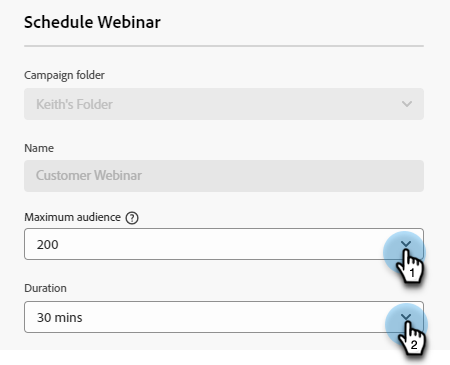
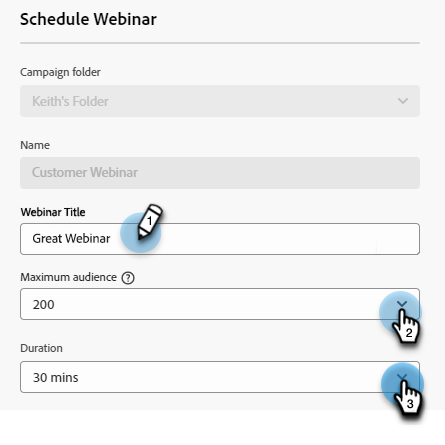
IW updates

diff --git a/help/marketo/temp-getting-started-section/temp-implementing-a-new-marketo-engage-instance/where-to-start.md b/help/marketo/temp-getting-started-section/temp-implementing-a-new-marketo-engage-instance/where-to-start.md
@@ -1,8 +1,32 @@
 ---
-description: Where to start
+description: Learn the best practices when implementing a new Marketo Engage instance. Keeping track of performed will help you get the most out of Marketo Engage and set your instance up for long-term hygiene and efficiency. As a new admin navigating a fresh instance, use these guides to stay focused and organized.
 title: Where to start
 hide: yes
 hidefromtoc: yes
 feature: Getting Started
 ---
-# Where to start {#Where-to-start}
+# Where to Start {#Where-to-start}
+
+Welcome to Marketo Engage! Get ready to streamline, automate, and measure marketing tasks and workflows with powerful marketing automation capabilities.
+
+In this "Implementing a New Marketo Engage Instance" guide, you will learn how to seamlessly implement a new instance to ensure long-term hygiene and operational efficiency. Each checklist provides valuable steps for you to keep track of your configuration progress. Use the downloadable checklists to document your decisions along the way for future instance audits and onboarding.
+
+## Best Practice Checklists For Your New Marketo Engage Instance {#best-practice-checklists-new-instance}
+
+Download the Marketo Engage Instance New Implementation Admin Checklists[INSERT LINK] or go through the online guides below:
+
+Admin section [INSERT LINK]
+
+Database [INSERT LINK]
+
+Marketing Activities [INSERT LINK]
+
+Design Studio [INSERT LINK]
+
+Analytics [INSERT LINK]
+
+Documentation [INSERT LINK]
+
+## Connect with Your Peers {#connect-with-your-peers}
+
+Visit the [Marketing Nation Community](https://nation.marketo.com/) and create your community profile to learn and ask your peers how they implement and manage their Marketo Engage instance.

diff --git a/help/marketo/product-docs/demand-generation/events/interactive-webinars/create-an-interactive-webinar.md b/help/marketo/product-docs/demand-generation/events/interactive-webinars/create-an-interactive-webinar.md
@@ -36,16 +36,26 @@ Create an Interactive Webinar in a few easy steps.
    >
    >Information on partner webinars can be found here.
 
-1. Set the maximum audience size for your webinar and how long it will last.
+1. Give your webinar a title. Set its maximum audience size and how long it will last.
 
    ![](assets/create-an-interactive-webinar-6.png)
+
+   >[!NOTE]
+   >
+   >* The webinar's title is visible to participants when they join. It is important that the title is different from the name of the Interactive Webinars Event Program in your Marketo Engage instance, as well as the name of the webinar room.
+   >
+   >* You cannot reuse a webinar title. Each one must be unique in your Marketo instance.
+   >
+   >* You can change the webinar title at a later stage, if desired.
 
 1. Schedule the date/time of your webinar and click **Create**.
 
    ![](assets/create-an-interactive-webinar-7.png)
 
-Your Interactive Webinar is created. [Learn how to add presenters and or co-hosts](/help/marketo/product-docs/demand-generation/events/interactive-webinars/add-a-webinar-team.md){target="_blank"}.
-
-<br>
+<p>
 
 Now, it's time to [design your webinar](/help/marketo/product-docs/demand-generation/events/interactive-webinars/designing-interactive-webinars.md){target="_blank"}.
+
+>[!MORELIKETHIS]
+>
+>[Learn how to add presenters and/or co-hosts](/help/marketo/product-docs/demand-generation/events/interactive-webinars/add-a-webinar-team.md){target="_blank"}

diff --git a/help/marketo/product-docs/demand-generation/events/interactive-webinars/interactive-webinars-overview.md b/help/marketo/product-docs/demand-generation/events/interactive-webinars/interactive-webinars-overview.md
@@ -46,7 +46,7 @@ No, Interactive Webinar Event Programs make the association for you.
 
 If the lead's "first name" field is empty, they cannot register for the webinar. You can resolve this by entering a valid first name.
 
-**I'm experiencing audio/video issues while presenting a webinar while accessing my organization's VPN. What do I do?**
+**I'm experiencing audio/video issues when presenting a webinar while accessing my organization's VPN. What do I do?**
 
 Adobe Connect, the Interactive Webinars' delivery platform, uses WebRTC for audio/video/screen-sharing. It's likely your organization's network firewall is blocking the IP addresses/ports we use for WebRTC-based communication. Your IT team needs to allow these ports for WebRTC to work. [Learn more](https://helpx.adobe.com/in/adobe-connect/firewall-proxy-server-configuration-adobe-connect.html){target="_blank"}.
 

diff --git a/help/marketo/product-docs/demand-generation/events/interactive-webinars/promoting-an-interactive-webinar.md b/help/marketo/product-docs/demand-generation/events/interactive-webinars/promoting-an-interactive-webinar.md
@@ -29,3 +29,5 @@ You can use tokens to include the Webinar URL to individual members in an email 
 Links are available on the right side of the Overview tab in your Event Program to create a Landing Page as well as an email campaign. The rest of the promotions related to an event remain the same as partner webinars using the Launchpoint integration.
 
 ![](assets/promoting-an-interactive-webinar-2.png)
+
+Interactive Webinars allows you to solicit registration before, during, or after a webinar. In all cases, you would simply need to share the Webinar URL with the lead. Clicking the link before the webinar begins sends them to a pre-webinar Landing Page. Clicking it during the webinar takes them to the webinar in progress. Clicking it after the webinar takes them to a recording of the webinar.

diff --git a/help/marketo/product-docs/demand-generation/events/interactive-webinars/event-workflows.md b/help/marketo/product-docs/demand-generation/events/interactive-webinars/event-workflows.md
@@ -14,6 +14,10 @@ After your webinar is completed, go to the Dashboard tab to see the aggregated p
 >
 >If the webinar has not been completed or the data has not been received for any reason, the Dashboard tab will not yet be available.
 
+## Manual Sync {#manual-sync}
+
+Interactive Webinars allows you to obtain your webinar's engagement data from Adobe Connect if you haven't automatically received it within two hours of the webinar's completion. A "Sync Now" button appears in the Overview page. Clicking **Sync Now** triggers a pull from Adobe Connect to populate the data in Marketo Engage. After the sync has taken place, the button disappears and the Dashboard tab becomes populated.
+
 ## Dashboard Widgets {#dashboard-widgets}
 
 The Dashboard consists of four widgets.

diff --git a/help/marketo/product-docs/demand-generation/events/interactive-webinars/designing-interactive-webinars.md b/help/marketo/product-docs/demand-generation/events/interactive-webinars/designing-interactive-webinars.md
@@ -18,7 +18,9 @@ Learn how to design your webinar to suit your needs.
 
    >[!NOTE]
    >
-   >A room is an online space that's used to conduct meetings.
+   >* A room is an online space that's used to conduct meetings.
+   >
+   >* If you choose an existing Webinar Room and need to rename it, simply click the **Rename Webinar Room** button to the right.
 
 1. Choose a template.
 
